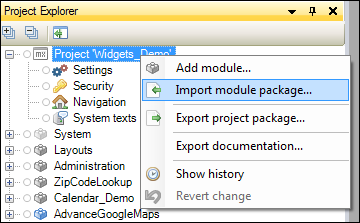
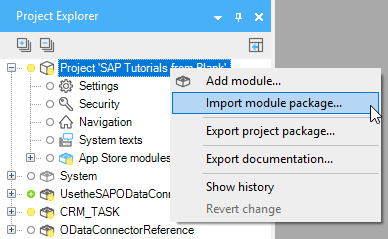
How To Use the SAP OData Model Creator - Pictures for 7.12 (#1015)
Updated pictures for Desktop Modeler 7.12
Minor changes to text and added a Related Content section

diff --git a/content/howto/sap/use-sap-odata-model-creator.md b/content/howto/sap/use-sap-odata-model-creator.md
@@ -28,7 +28,7 @@ For details on using Mendix App Store connectors, see [How to Use App Store Cont
 
 Generating a service module starts by getting an OData metadata XML file. This file can be download from the OData service URL directly using the `$metadata` suffix or retrieved from the SAP Gateway. Your SAP Gateway adminstrator can provide the file for you.
 
-With the file available visit the [SAP OData Model Creator](https://sapodatamodelcreator.mendixcloud.com/). For this documentation, we use the publicly available HCM People Profile service, for which [this](https://www.sapfioritrial.com/sap/opu/odata/sap/HCM_PEOPLE_PROFILE_SRV/$metadata) is the metadata file.
+With the file available, visit the [SAP OData Model Creator](https://sapodatamodelcreator.mendixcloud.com/). For this documentation, we use the publicly available HCM People Profile service, for which [this](https://www.sapfioritrial.com/sap/opu/odata/sap/HCM_PEOPLE_PROFILE_SRV/$metadata) is the metadata file.
 
 To generate the service module, follow these steps:
 
@@ -45,7 +45,7 @@ To generate the service module, follow these steps:
 
 ## 4 Using the Module in a Mendix App
 
-Now you have a Mendix module ready to import into your project. Open the project which you created as a prerequisite. Right-click your project in the **Project Explorer** and select **Import Module Package**.
+Now you have a Mendix module ready to import into your project. Open the project which you created as a prerequisite. Right-click your project in the **Project Explorer** and select **Import module package...**.
 
 ![](attachments/use-sap-odata-model-creator/import_module_package.png)
 
@@ -53,6 +53,12 @@ You now have your service **HCM\_PEOPLE\_PROFILE\_SRV** module available in your
 
 ![](attachments/use-sap-odata-model-creator/project_explorer.png)
 
-For more information on creating a new app from a Mendix project package, see [Import Project Package](/refguide/import-project-package-dialog).
+Now you are ready to use the imported service module together with the SAP OData Connector. For more information, see [How to Use the SAP OData Connector](/howto/sap/use-sap-odata-connector).
 
-Now you are ready to use the imported service module together with the SAP OData Connector. For more information, see [Use the SAP OData Connector](/howto/sap/use-sap-odata-connector).
+## 5 Related Content
+
+* [HCM People Profile Service sample metadata](https://www.sapfioritrial.com/sap/opu/odata/sap/HCM_PEOPLE_PROFILE_SRV/$metadata)
+* [How to Use App Store Content in the Modeler](/community/app-store/use-app-store-content-in-the-modeler)
+* [How to Use the SAP OData Connector](/howto/sap/use-sap-odata-connector)
+* [SAP OData Connector](https://appstore.home.mendix.com/link/app/74525/Mendix/SAP-OData-Connector)
+* [SAP OData Model Creator](https://sapodatamodelcreator.mendixcloud.com/)
